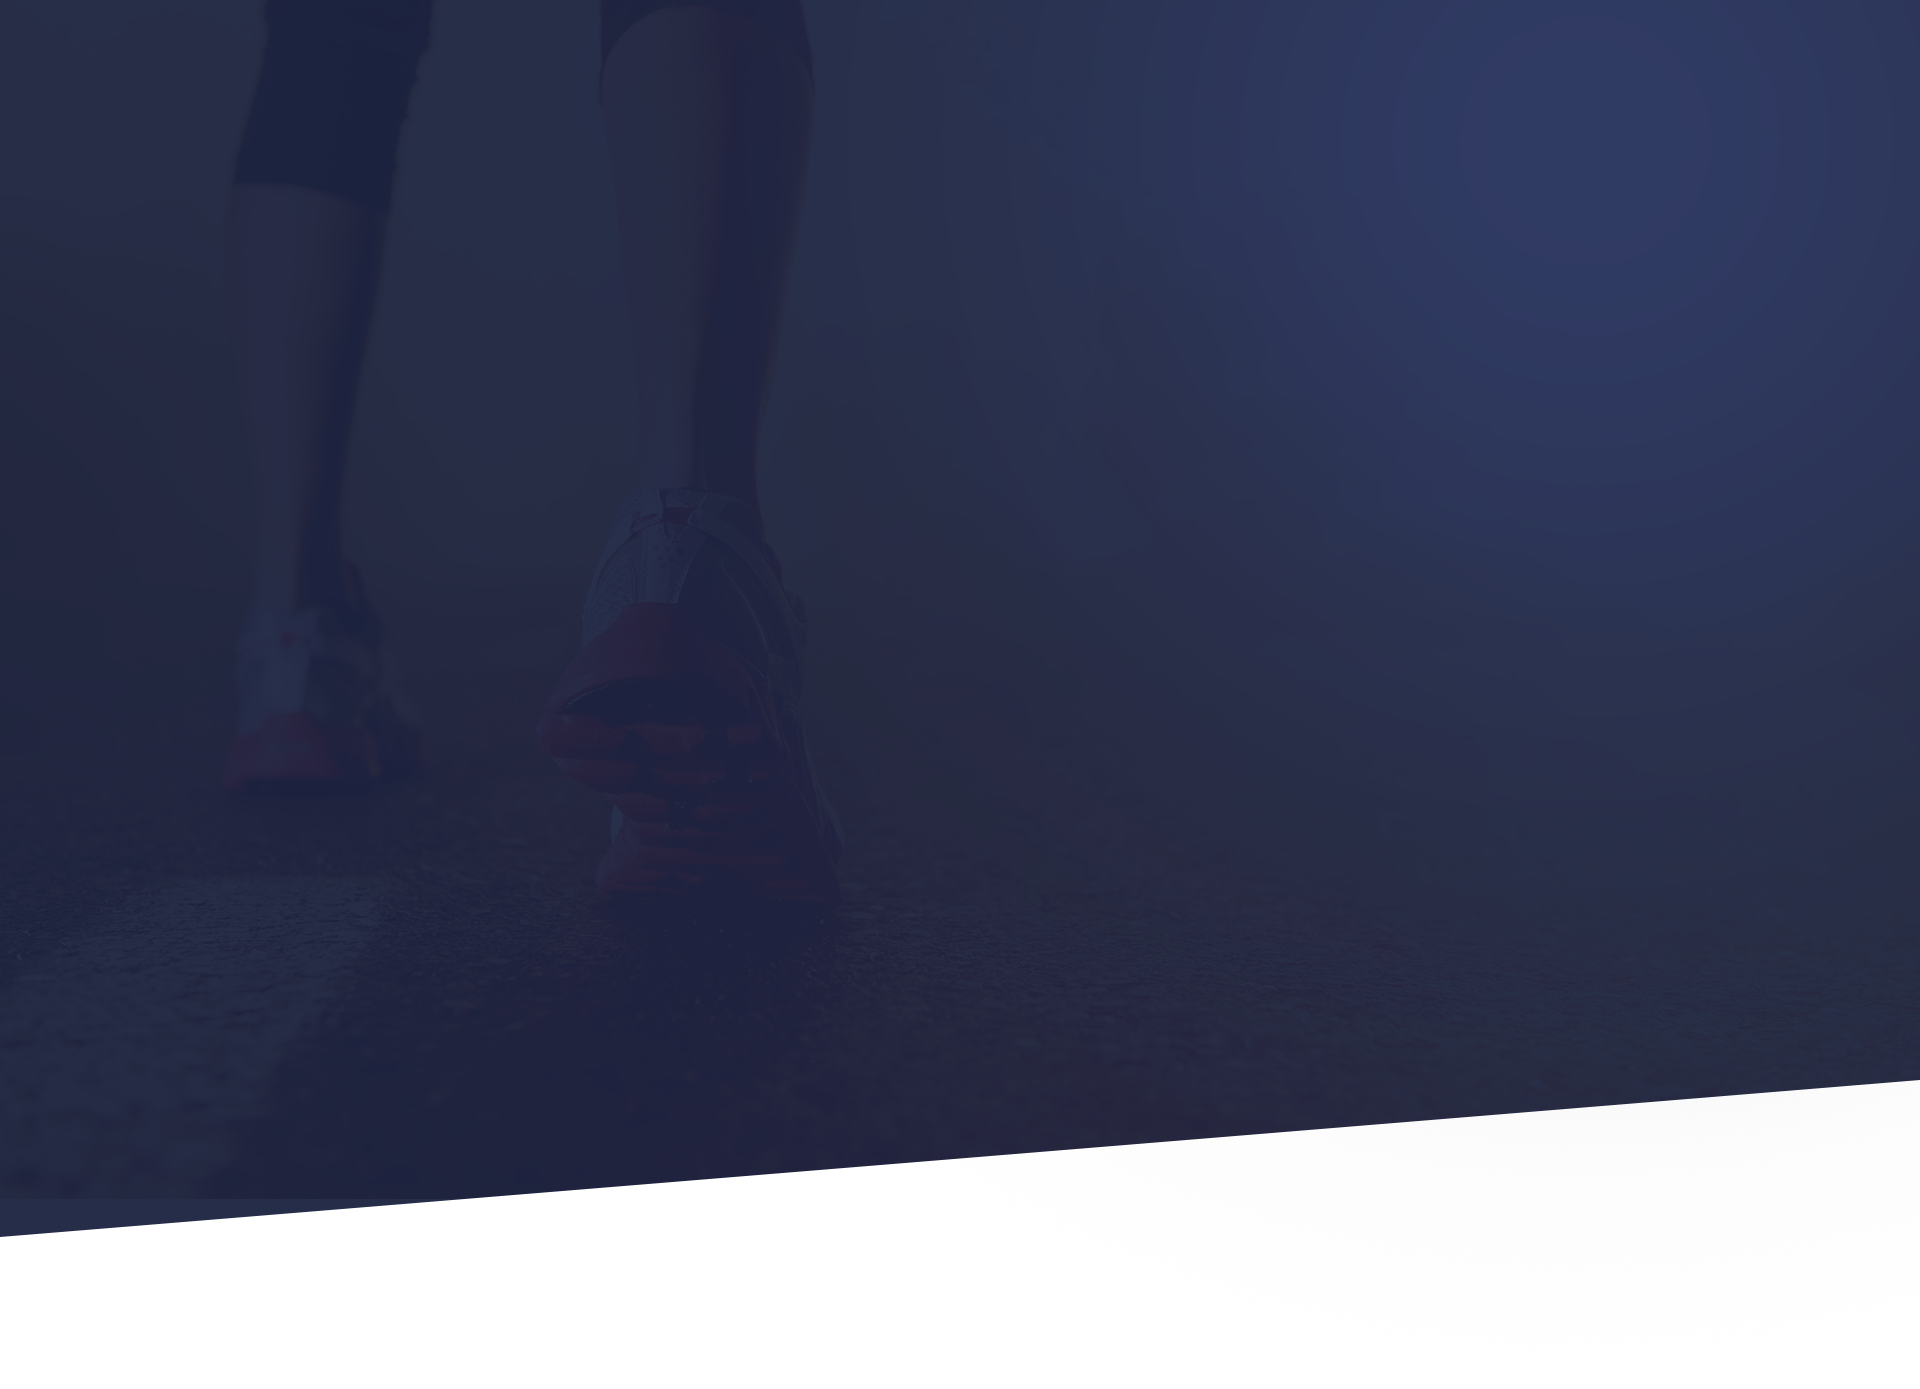
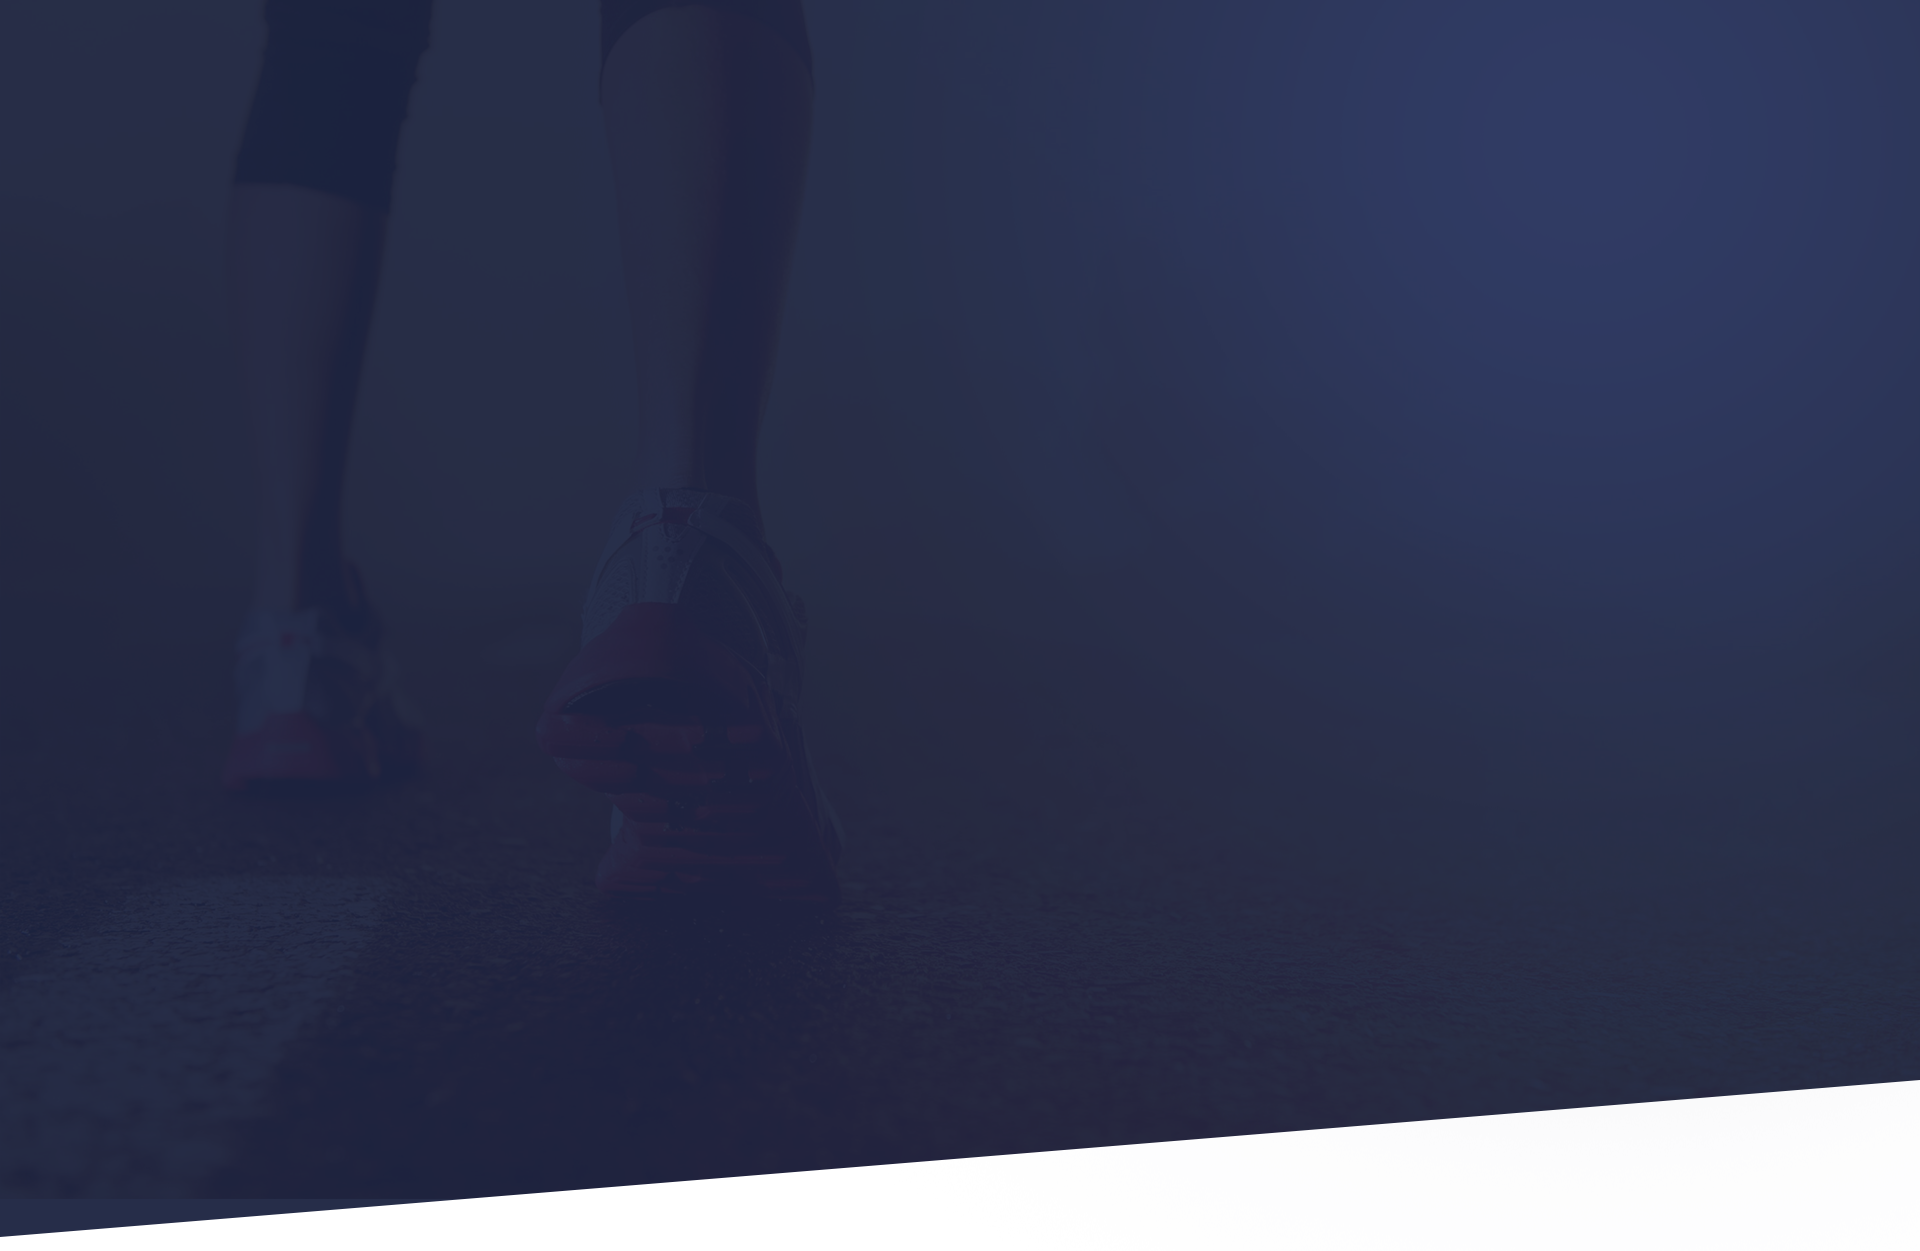
services

Changed region(s): [[0.0, 0.7794, 1.0, 0.9976]]

diff --git a/index.html b/index.html
@@ -14,7 +14,7 @@
 
 
   <div class="page-holder d-flex flex-column min-vh-100 position-relative">
-    <header class="container-big container-xxl position-absolute align-self-center">
+    <header class="header container-big container-xxl position-absolute align-self-center">
       <nav class="navbar navbar-expand-lg navbar-light">
         <div class="container-fluid justify-content-between">
           <a class="icon-logo align-self-start" href="#">
@@ -149,6 +149,53 @@
                     <img src="./img/conditions/conditions-blok_3.jpg" class="d-block w-100" alt="...">
                   </div>
                 </div>
+              </div>
+            </div>
+          </div>
+        </div>
+      </div>
+      <div class="container-xl main-services">
+        <div class="main-titles text-center">
+          <h2 class="services-title">Services</h2>
+          <p class="services-title-text">Achieve the best results with our wide variety of trainings!</p>
+        </div>
+        <div class="services-cards justify-content-md-center row">
+          <div class=" mb-sm-3 col-md-6 col-xl-4 position-relative">
+            <div class="cards-section position-relative">
+              <div class="position-absolute d-flex flex-column align-items-center">
+                <div class="card-icon">
+                  <img src="./img/services-cards/heart-monitor.webp" alt="heart-monitor">
+                </div>
+                <h3 class="card-title">Cardio Training</h3>
+                <p class="card-description">Lorem ipsum dolor sit amet consectetur adipisicing elit. Dolorum sunt blanditiis
+                  veritatisLorem ipsum dolor sit amet consectetur adipisicing elit. Dolorum sunt blanditiis veritatis
+                  et?</p>
+              </div>
+            </div>
+          </div>
+          <div class="mb-sm-3 col-md-6 col-xl-4">
+            <div class="cards-section position-relative">
+              <div class="position-absolute d-flex flex-column align-items-center">
+                <div class="card-icon">
+                  <img src="./img/services-cards/yoga.webp" alt="yoga">
+                </div>
+                <h3 class="card-title">Yoga Pilates</h3>
+                <p class="card-description">A elementum ligula lacus ac quam ultrices a scelerisque praesent
+                  vel suspendisse scelerisque a
+                  aenean hac montes.</p>
+              </div>
+            </div>
+          </div>
+          <div class="mb-sm-3 col-md-6 col-xl-4">
+            <div class="cards-section position-relative">
+              <div class="position-absolute d-flex flex-column align-items-center">
+                <div class="card-icon">
+                  <img src="./img/services-cards/power-trening.webp" alt="power-training">
+                </div>
+                <h3 class="card-title">Power Training</h3>
+                <p class="card-description">A elementum ligula lacus ac quam ultrices a scelerisque praesent
+                  vel suspendisse scelerisque a
+                  aenean hac montes.</p>
               </div>
             </div>
           </div>

diff --git a/css/style.css b/css/style.css
@@ -35,9 +35,11 @@ img{
 .main{
   flex: 1 1 auto;
 }
+.header{
+  margin-top: 70px;
+}
 .container-big{
   max-width: 1690px;
-  margin-top: 35px;
 }
 .container-xl{
   max-width: 1190px;
@@ -67,7 +69,7 @@ img{
 /* ----main-top--- */
 .main-top-wrapper{
   padding-top: 440px;
-  background: url(../img/page-holder/bg-top.png) center/cover no-repeat;
+  background: url(../img/page-holder/bg-top.png) top/100% 97% no-repeat;
 }
 .title-top{
   font-size: 60px;
@@ -87,7 +89,7 @@ img{
   color: #00a8ff;
 }
 
-/* ---main-conditions--- */
+/* ---main-top-conditions--- */
 .carousel-indicators {
     position: absolute;
     top: 16%;
@@ -122,7 +124,7 @@ img{
 .schedule-section{
   bottom: 0.6rem;
 }
-/* ---carousel-schedule--- */
+/* ---main-top-carousel--- */
 .carousel-schedule-text:not(:last-child)::after{
   content: "";
   display: block;
@@ -188,4 +190,75 @@ img{
   font-size: 18px;
   font-weight: 300;
   line-height: 2;
+}
+
+/* ----main-services--- */
+.main-services{
+  margin-top: 170px;
+}
+/* ----main-services-title--- */
+.main-titles .services-title{
+  font-size: 48px;
+  font-weight: 700;
+  line-height: 1;
+}
+.main-titles .services-title-text{
+  font-size: 24px;
+  font-weight: 300;
+  line-height: 2;
+  color: #bbb;
+}
+/* ----main-services-cards--- */
+.services-cards {
+  margin-top: 170px;
+}
+.cards-section{
+  border: solid 1px #ddd;
+  transition: all 1s ease 0s;
+  padding-bottom: 86%;
+  z-index: 1;
+}
+.cards-section:hover{
+  border: 1px solid #00a8ff;
+  cursor: pointer;;
+}
+.cards-section:hover>div{
+  top: -8%;
+  transition: all 1s ease 0s;
+}
+.cards-section>div{
+  width: 75%;
+  top: 32%;
+  left: 50%;
+  z-index: 2;
+  transform: translate(-50%, 0);
+  transition: all 1s ease 0s;
+  pointer-events: none;
+}
+.cards-section:hover .card-description{
+  opacity: 1;
+  transition: all 1s ease-in 0s;
+}
+.card-icon{
+  width: 56px;
+  height: 46px;
+  background: #fff;
+  margin-bottom: 3.2em;
+}
+.card-icon img{
+  object-fit: none;
+}
+.card-title{
+  font-size: 24px;
+  font-weight: 700;
+  line-height: 1em;
+  margin-bottom: 20px;
+}
+.card-description{
+  font-size: 18px;
+  line-height: 1.78;
+  color: #999;
+  opacity: 0;
+  text-align: center;
+  transition: all 0.5s ease-out 0s;
 }
